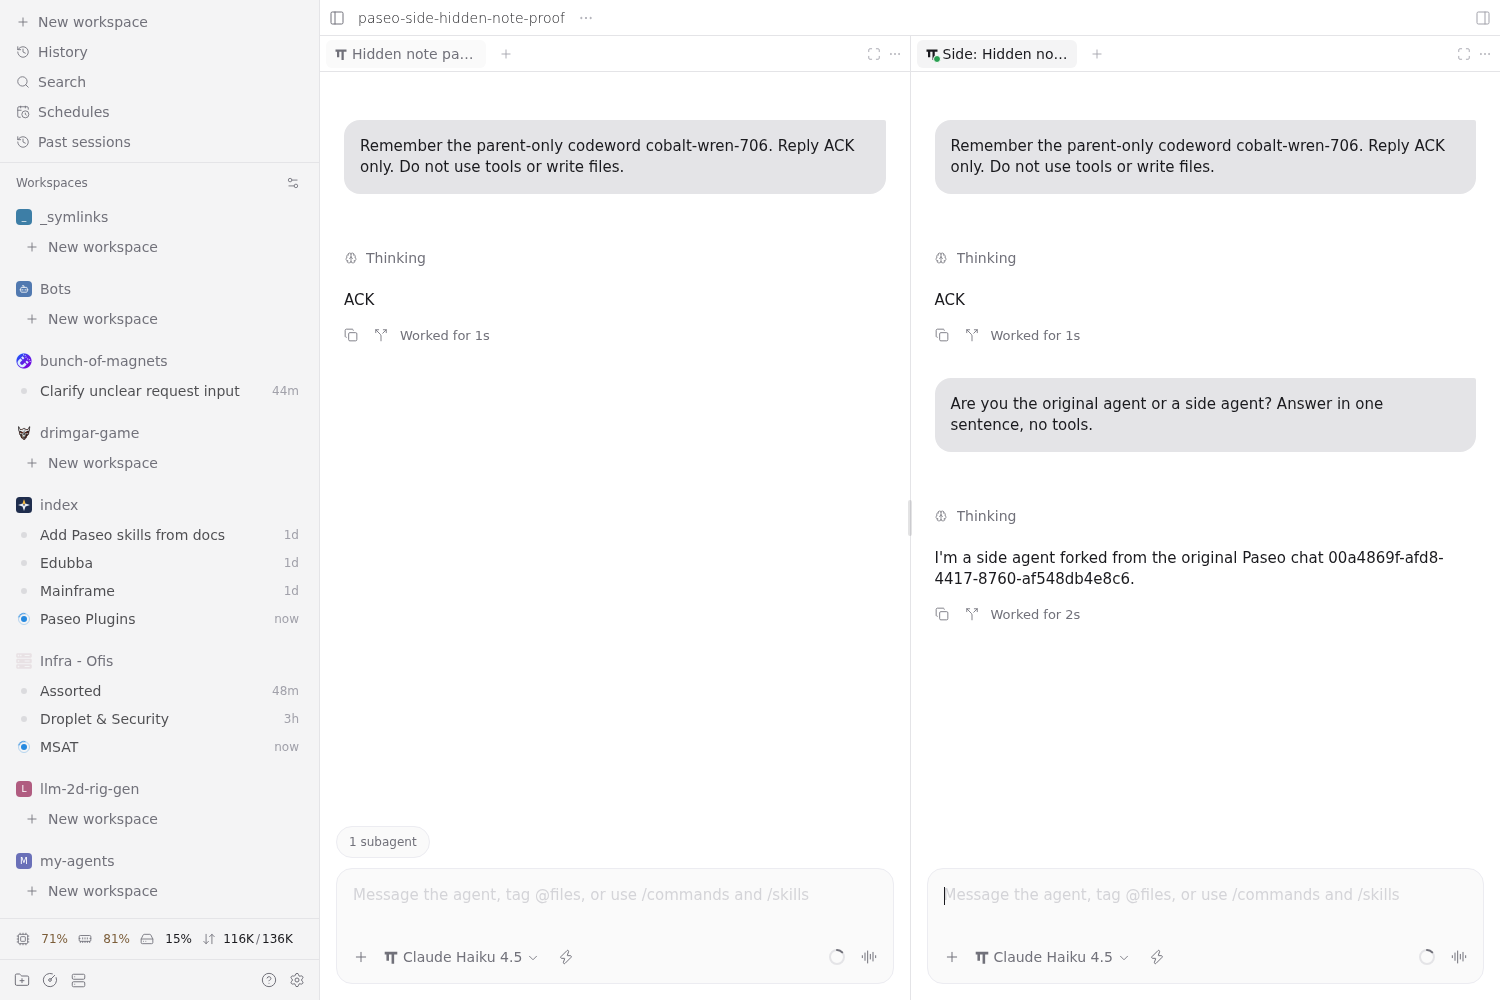
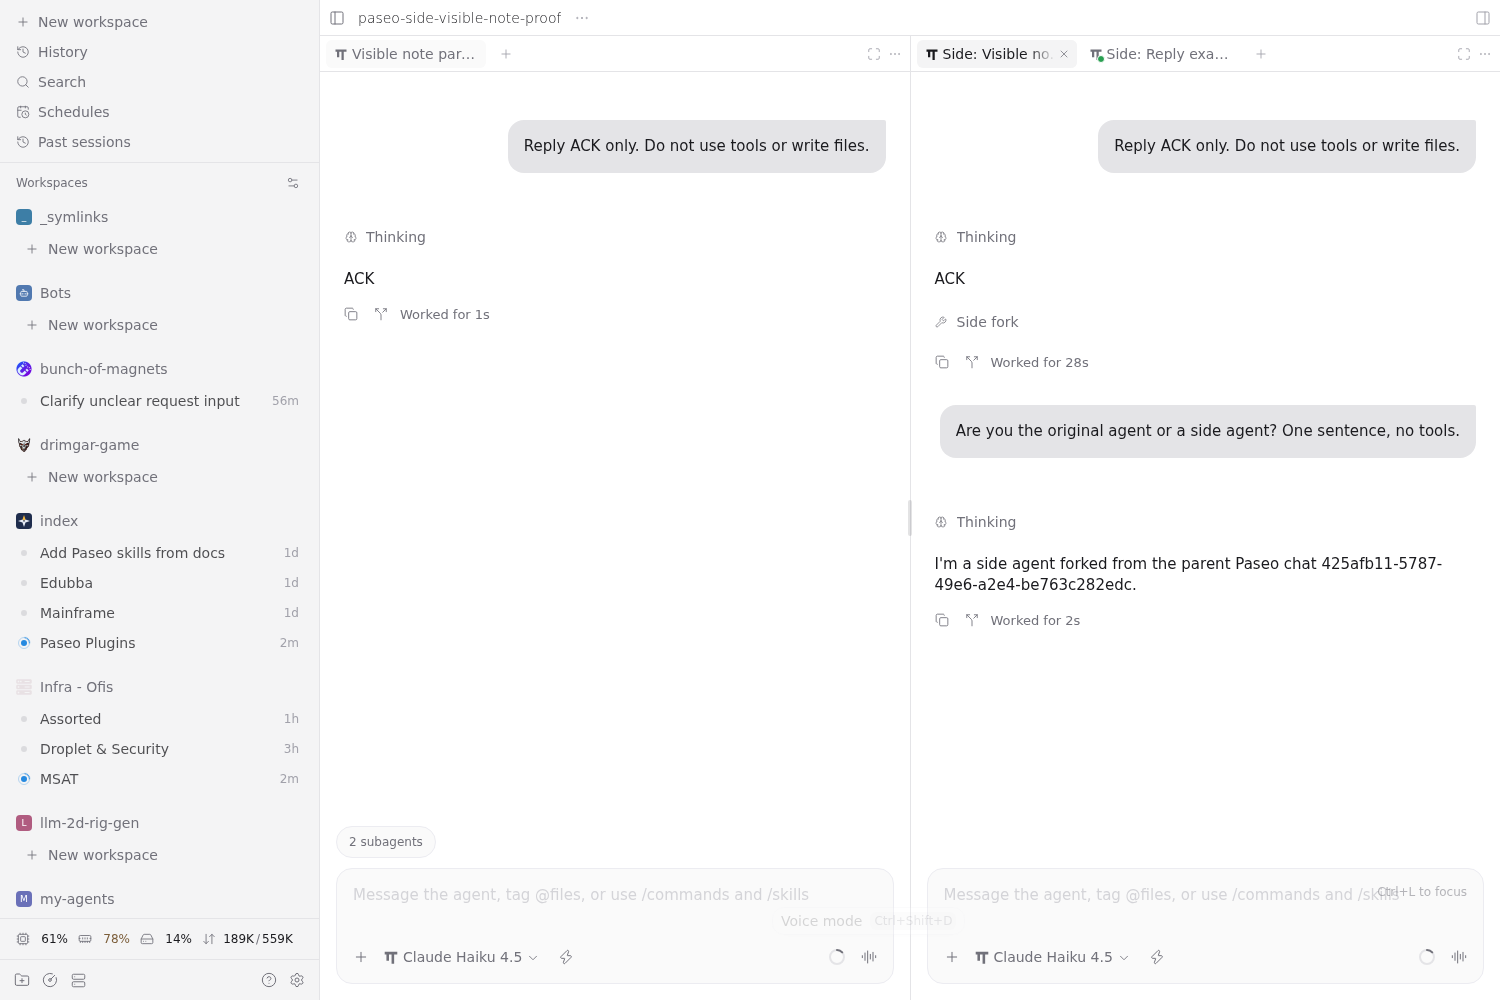
paseo-plugins: side-agent shows the --full fork note as a Side fork row

diff --git a/paseo-plugins/side-agent/server/full-memory.ts b/paseo-plugins/side-agent/server/full-memory.ts
@@ -52,11 +52,11 @@ export async function copyCompletedSession(source: string, contextNote: string):
   if (!parentEntryId) throw new Error("Completed OMP turn has no entry ID.");
   let noteId: string;
   do { noteId = randomUUID().slice(0, 8); } while (entries.some(entry => entry.id === noteId));
-  // OMP replays custom_message entries into model context. display:false hides
-  // this in both OMP and Paseo; appending it does not invoke a model turn.
+  // OMP replays this into model context. Paseo displays it as an expandable
+  // side-fork row; appending it does not invoke a model turn.
   entries.push({
     type: "custom_message", id: noteId, parentId: parentEntryId, timestamp,
-    customType: "side-agent-context", content: contextNote, display: false, attribution: "agent",
+    customType: "side-fork", content: contextNote, display: true, attribution: "agent",
   });
   const destination = join(dirname(source), `${timestamp.replace(/[:.]/g, "-")}_${id}.jsonl`);
   await writeFile(destination, entries.map(entry => JSON.stringify(entry)).join("\n") + "\n", { flag: "wx", mode: 0o600 });

diff --git a/paseo-plugins/side-agent/OVERVIEW.md b/paseo-plugins/side-agent/OVERVIEW.md
@@ -55,24 +55,25 @@ artifacts are refused. Absolute paths embedded in historical text are not
 rewritten; existing OMP compaction is not undone.
 
 After the completed-turn cut, the copy gets one OMP `custom_message` entry with
-`customType: "side-agent-context"`, `display: false`, and `attribution: "agent"`.
+`customType: "side-fork"`, `display: true`, and `attribution: "agent"`.
 Its fresh entry ID links through `parentId` to the copied completed assistant
 entry. Its content is:
 
 > You are a side agent forked from Paseo chat <id> (<parent title>). The conversation above belongs to the parent; earlier tasks are not yours. Work only on what the user asks next.
 
 OMP replays this entry into model context on resume without starting a turn.
-The installed Paseo OMP provider also honors `display: false`: the note produces
-**no visible timeline row or bubble**, including no expandable “Custom message”
-row. It remains visible in the raw session file. This behavior was proven against
-the authoritative `~/.local/bin/omp` binary (18.11.0), not inferred solely from
-the npm source.
+Paseo shows it as a **collapsed, expandable synthetic tool row** before the next
+user message. The UI humanizes `side-fork` to **Side fork**; expanding it reveals
+the note text. This is context metadata, not an executed tool or model turn.
+The imported turn's “Worked for” footer may include the note timestamp even
+though the child remains idle with `LastUsage: null`. Resume behavior was proven
+against the authoritative `~/.local/bin/omp` binary (18.11.0).
 
 Paseo imports the copied file as a new OMP agent with the
 `paseo.parent-agent-id` label and applies the parent's current runtime settings.
 With a task, it sends **only the task text**, without a duplicated fork note.
 **Without a task it sends nothing at all**: the imported child opens idle with
-no new user/assistant message or model turn, but with the hidden side-context
+no new user/assistant message or model turn, but with the visible side-context
 entry ready for the first prompt. The parent is never resumed or written by
 this operation. Full mode inherits native conversation/tool-output memory,
 not just a transcript attachment; long histories can be slower and more costly.
@@ -167,12 +168,14 @@ Screenshots in `screenshots/` replace the old file-pointer-mode evidence:
   Ready, using the attached chat history.
 - `no-task-fork-followup.png`: that child then recalls a parent-only codeword
   without tools.
-- `no-task-full-idle.png`: refreshed hidden-note proof; `/side --full` opens idle
-  with no new user/assistant message, no model turn, and no visible note.
+- `no-task-full-idle.png`: `/side --full` opens idle with a collapsed **Side fork**
+  row at the end of imported history, without starting a model turn.
+- `no-task-full-note-expanded.png`: expanding that row reveals the context note.
 - `no-task-full-identity.png`: the first prompt identifies the child as a side
-  agent forked from its parent, without tools.
-- `no-task-full-followup.png`: the same child then recalls `cobalt-wren-706`
-  without tools; the hidden note still has no timeline row.
+  agent forked from its parent, without tools; the note row remains in history.
+- `full-note-before-task.png`: with a task, the note row precedes the task message.
+- `no-task-full-followup.png`: earlier memory-regression proof; the full child
+  recalls `cobalt-wren-706` without tools.
 
 Optional-task regression testing also used OMP Claude Haiku 4.5. Bare `/side`
 and `/side --fork` acknowledged with `Ready.`. Before its first follow-up, the
@@ -182,13 +185,12 @@ answered `silver-oriole-508` on follow-up with zero tool calls. With-task fork a
 full checks returned `FORK_TASK_OK` and `FULL_TASK_OK`; right-pane reuse remained
 at two visible panes.
 
-The hidden-note regression confirmed the taskless full child identifies itself
-as a side agent forked from parent `00a4869f-afd8-4417-8760-af548db4e8c6`, then
-recalls `cobalt-wren-706`, with zero tool calls. The with-task copy received only
-the task text and returned `HIDDEN_FULL_TASK_OK`. Both copies contained exactly
-one new hidden context note. Parent SHA-256 stayed
[1 lines of base64/hex data omitted]
-before and after both launches and follow-ups. No fallback or DOM prefill was needed.
+The visible-note regression used OMP Claude Haiku 4.5. Before its first prompt,
+the taskless child was idle with `LastUsage: null`; its collapsed **Side fork**
+row expanded to the exact context note. It then identified itself as a side
+agent forked from parent `425afb11-5787-49e6-a2e4-be763c282edc`, with no tools.
+The with-task copy showed the row before the task and returned
+`VISIBLE_NOTE_TASK_OK`. Both copies were archived and their test files removed.
 
 The random token appeared **only in the parent's tool output**, not its user,
 assistant, or reasoning messages. Session inspection found zero new tool calls
